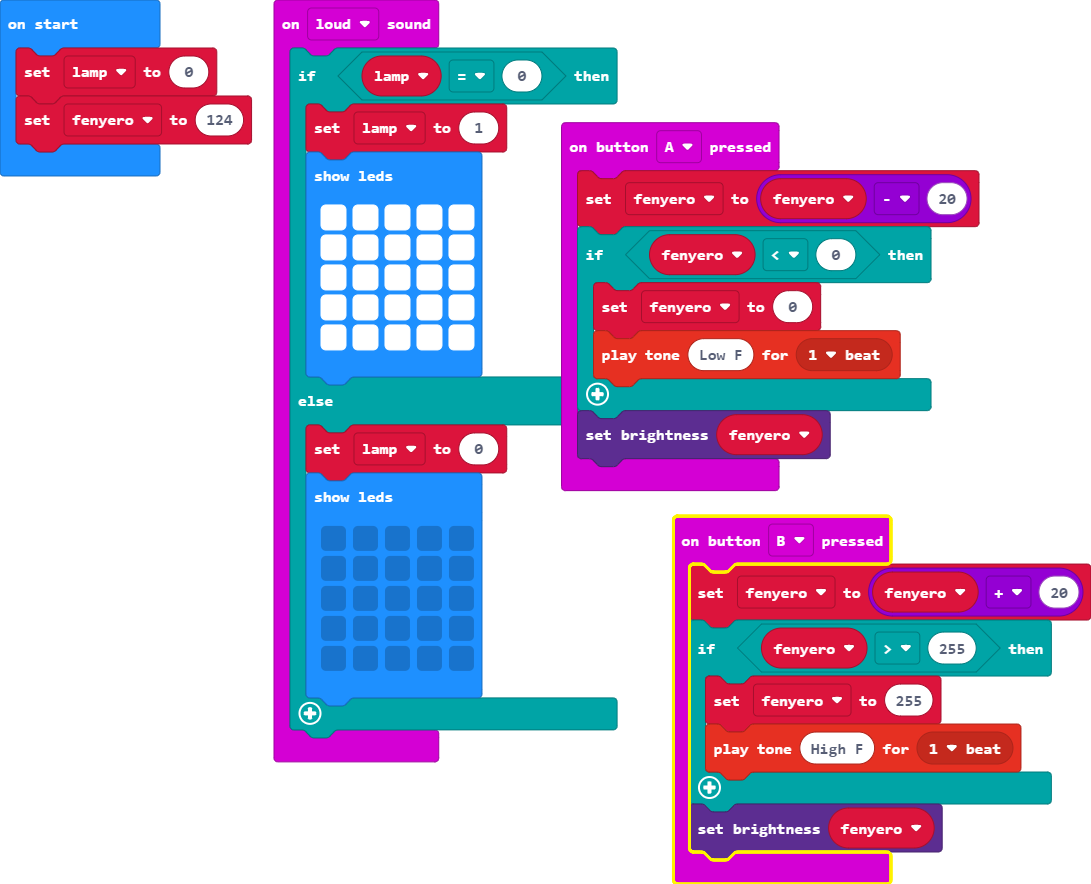
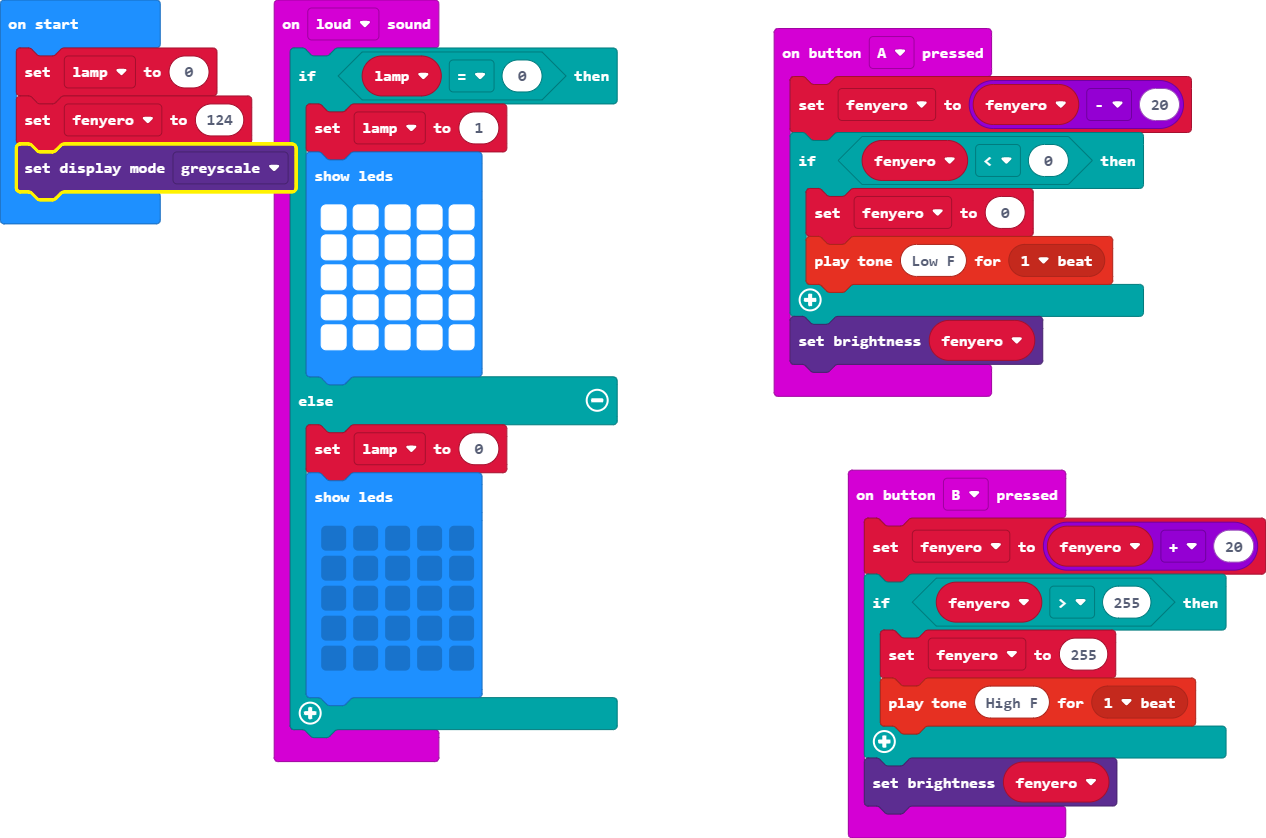
Update pxt.json, main.blocks, main.ts

diff --git a/main.ts b/main.ts
@@ -39,3 +39,4 @@ let fenyero = 0
 let lamp = 0
 lamp = 0
 fenyero = 124
+led.setDisplayMode(DisplayMode.Greyscale)
